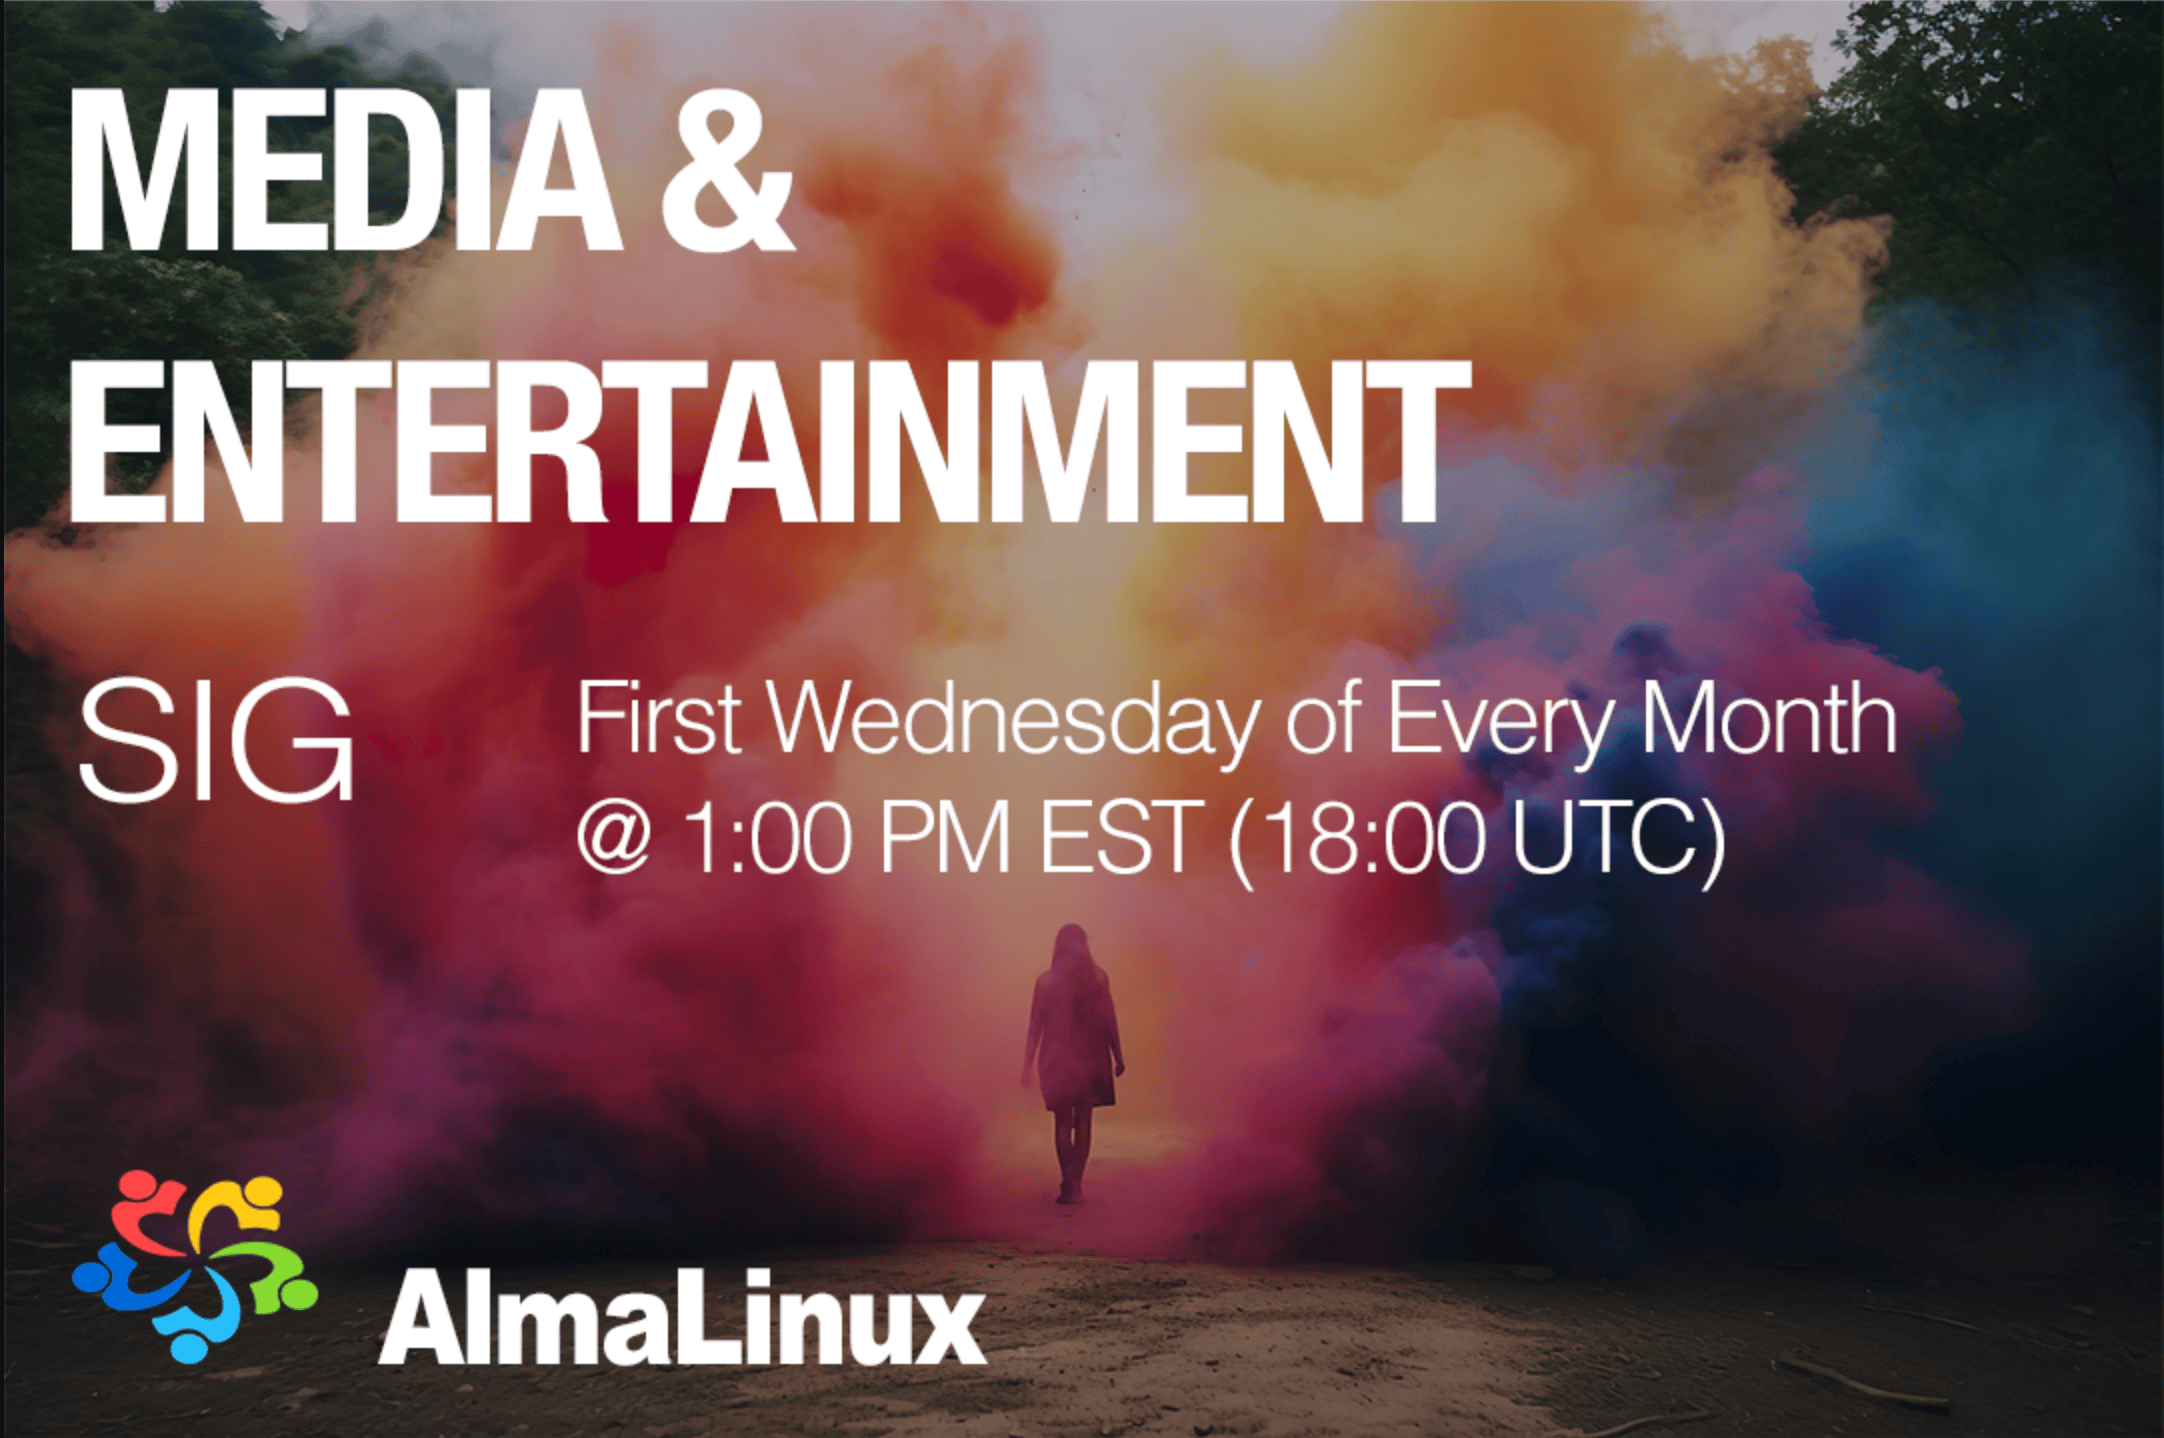
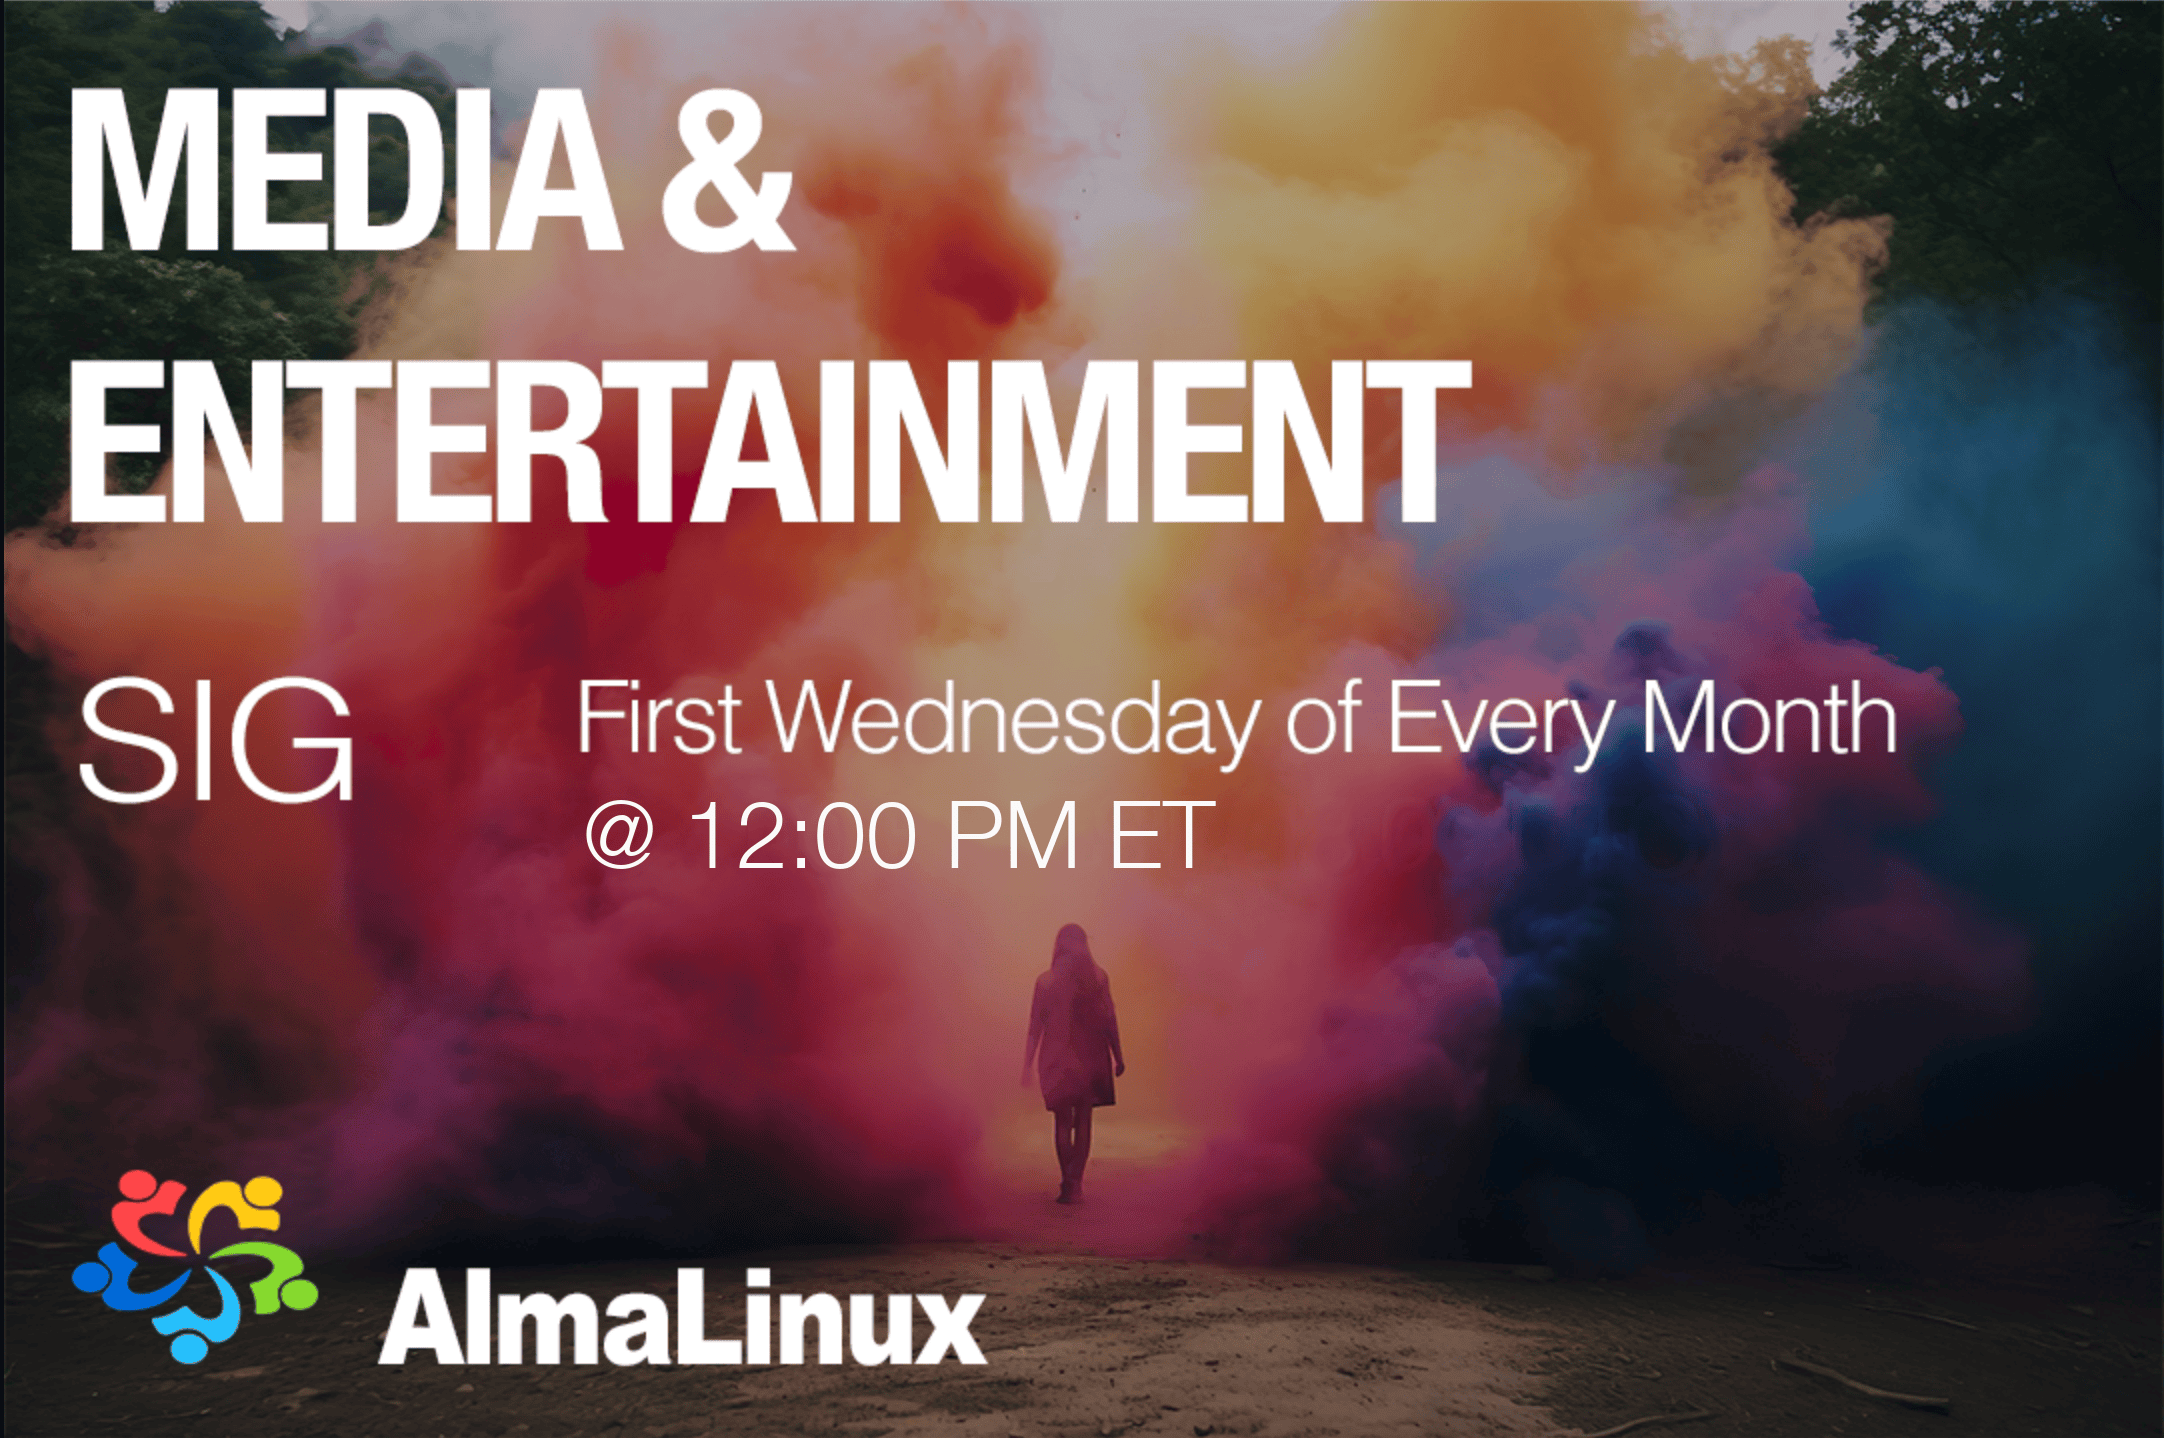
fixing meeting time

Changed region(s): [[0.2477, 0.5508, 0.805, 0.612]]

diff --git a/layouts/partials/mae/community.html b/layouts/partials/mae/community.html
@@ -61,15 +61,12 @@
           Keeping it in text as well means screen readers and translators get
           it, and it stays correct if the banner is ever redrawn.
 
-          TODO before merge: this time and the wiki (16:00 UTC) disagree. Confirm
-          the real time with the SIG, fix whichever is wrong (and the banner if
-          needed), then delete the warning line below.
+          The SIG meets at noon US Eastern Time year round, so the time in UTC
+          moves with daylight saving. That's why neither the text nor the banner
+          gives a UTC time.
         */}}
-        <p class="mb-1">
-          {{ i18n "The SIG meets on the first Wednesday of every month at 1:00 PM Eastern Time (Montreal), which is 18:00 UTC in winter and 17:00 UTC in summer." }}
-        </p>
-        <p class="mb-3 fw-bold text-warning">
-          {{ i18n "NEED TO CONFIRM THIS BEFORE WE PUBLISH" }}
+        <p class="mb-3">
+          {{ i18n "The SIG meets on the first Wednesday of every month at 12:00 PM Eastern Time." }}
         </p>
         <div class="d-flex flex-wrap gap-3">
           <a
